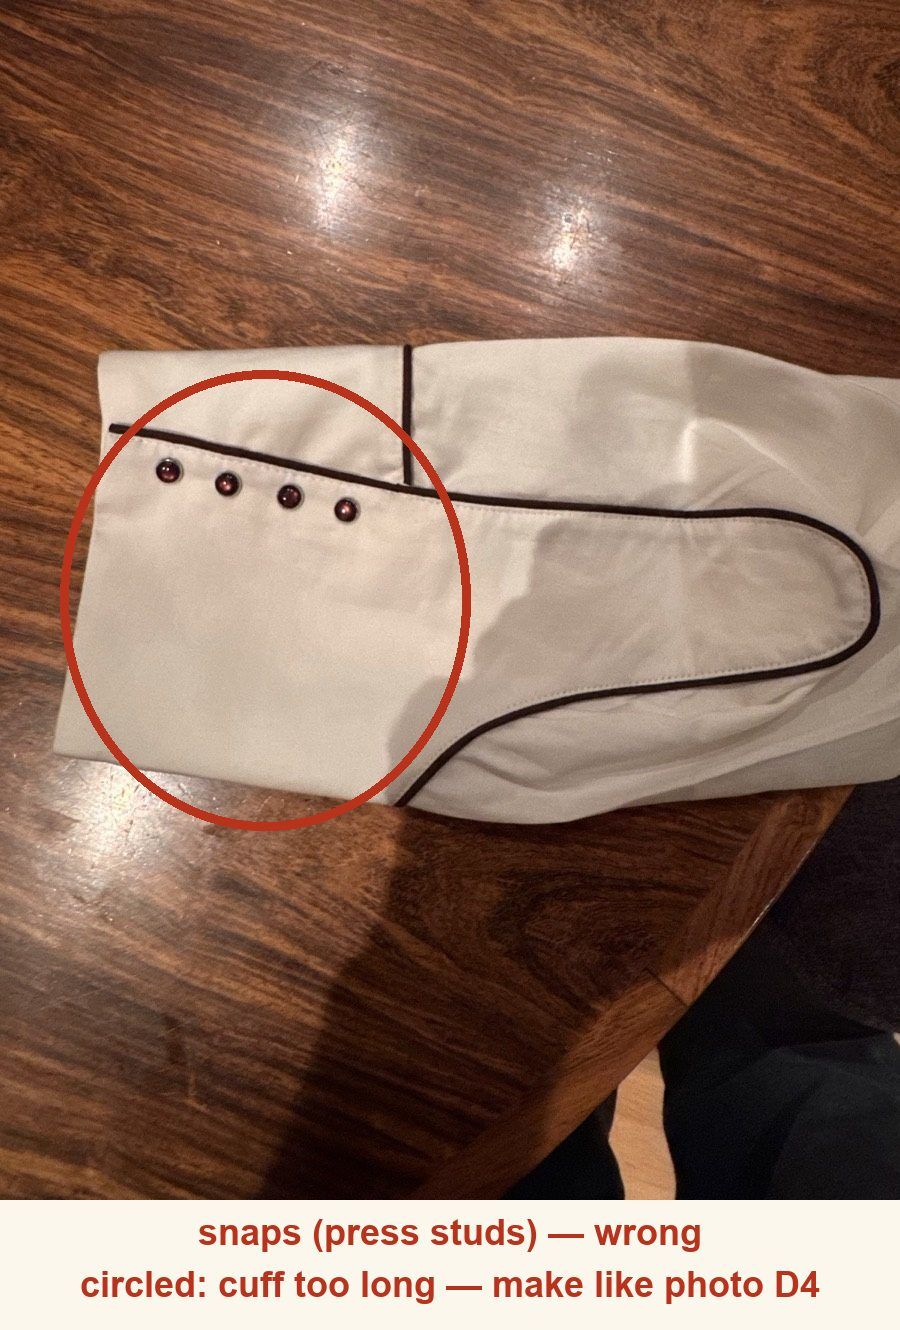
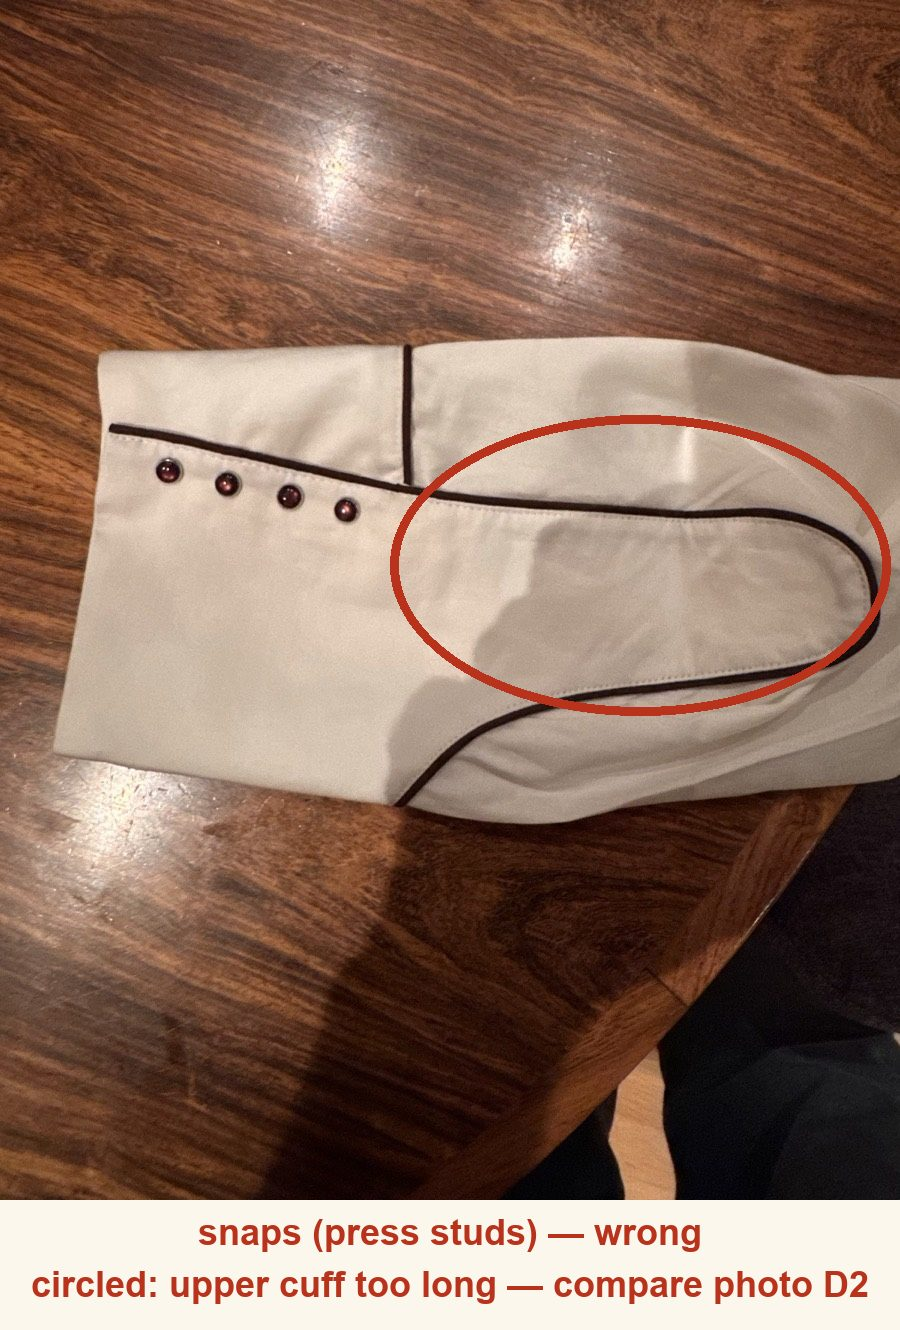
F21: circle the upper cuff section (the too-long part), compare to D2

diff --git a/index.html b/index.html
@@ -333,9 +333,9 @@ const PHOTOS = {
   T1: ['T1', T+'costume-03.jpg', 'Front of the original costume.', 'good'],
   T4: ['T4', T+'costume-01.jpg', 'Back: yoke piping; each cuff has 4 brown buttons.', 'good'],
   T7: ['T7', T+'propstore-full-costume.jpg', 'The full costume.', 'good'],
-  D4: ['D4', T+'cuff-length-detail.jpg', 'The correct cuff length on the original — copy this length. Version 1 cuffs were too long.', 'good', 'fit'],
+  D4: ['D4', T+'cuff-length-detail.jpg', 'The correct cuff length on the original — copy this length. On Version 1, the upper part of the cuff was too long.', 'good', 'fit'],
   T8: ['T8', T+'scruggs-still-shoulders.jpg', 'From the movie: on each shoulder, the piping makes a small, tight curl close to the seam.', 'good', 'fit'],
-  F21: ['F21', I+'crop-cuff-snaps.jpg', 'Cuff closed with snaps (press studs) — wrong, and the cuff is too long. Version 2: 4 working buttons, shorter cuff like photo D4.', 'bad', 'fit'],
+  F21: ['F21', I+'crop-cuff-snaps.jpg', 'Cuff closed with snaps (press studs) — wrong, and the upper part of the cuff is too long. Version 2: 4 working buttons; match the cuff length in photos D2 and D4.', 'bad', 'fit'],
   F22: ['F22', I+'crop-inside-snaps.jpg', 'Metal snaps inside the placket and cuff — wrong. No snaps anywhere on Version 2.', 'bad', 'fit'],
   F14: ['F14', I+'crop-pockets-wrong.jpg', 'Pockets sewn flat with arrow ends — wrong. Make a small open gap and pointed ends (photo D3).', 'bad', 'fit'],
   F7: ['F7', I+'crop-sleeve-long.jpg', 'Sleeve about 29″ — too long. Version 2: 26½″ from the attachment seam.', 'bad', 'fit'],
@@ -355,7 +355,7 @@ const FIXES = [
   },
   {
     title: 'Shotgun cuffs (tall cuffs with a long buttoned opening): 4 working buttons, correct length',
-    body: 'Each cuff needs <strong>4 working brown buttons with buttonholes</strong> — no snaps (press studs). The Version-1 cuffs were <strong>too long</strong>: make the <strong>cuff length match photo D4</strong>, with the 4 buttons <strong>spaced evenly along the piped opening</strong>.',
+    body: 'Each cuff needs <strong>4 working brown buttons with buttonholes</strong> — no snaps (press studs). On Version 1, the <strong>upper part of the cuff was too long</strong>: make the <strong>cuff length match photos D2 and D4</strong>, with the 4 buttons <strong>spaced evenly along the piped opening</strong>.',
     photos: ['D2', 'D4', 'T5'],
   },
   {